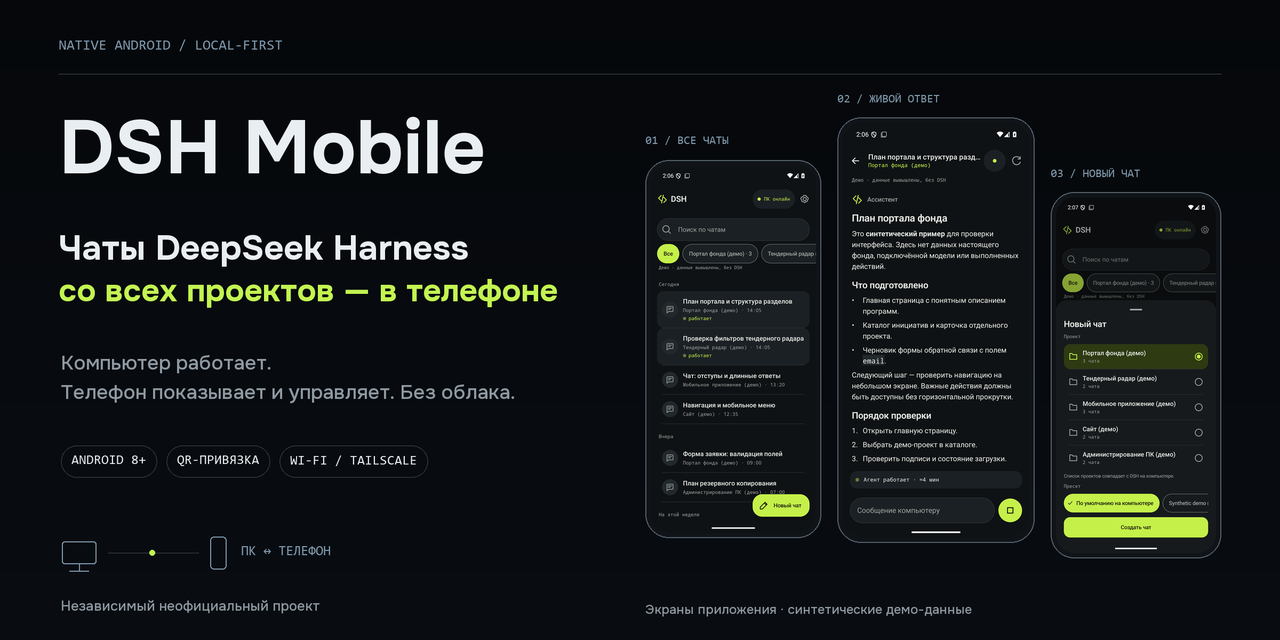
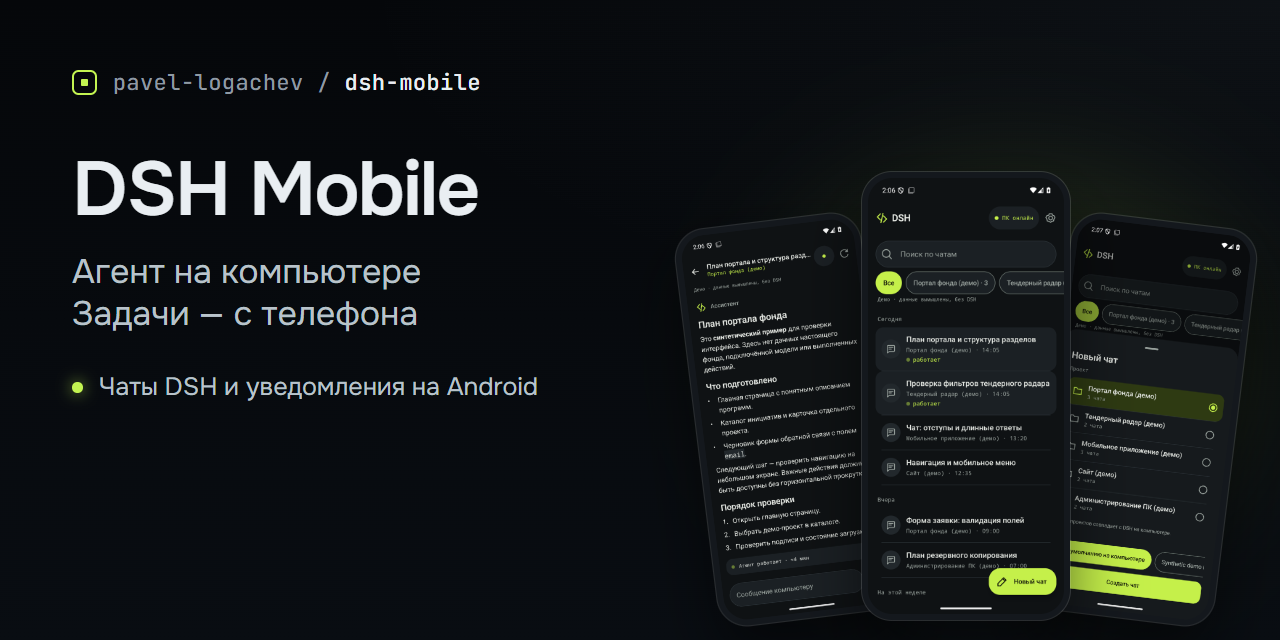
docs: redesign README and visuals

diff --git a/README.md b/README.md
@@ -1,79 +1,147 @@
-<p align="center">
-  <img src="docs/assets/dsh-mobile-showcase.png" alt="DSH Mobile — список чатов и чат с работающим агентом на Android" width="100%">
-</p>
+<picture><source media="(max-width: 767px)" srcset="docs/assets/dsh-mobile-banner-mobile.png"><img src="docs/assets/dsh-mobile-banner.png" alt="Экраны DSH Mobile для Android. Чаты и уведомления — на телефоне, агент работает на компьютере."></picture>
 
 # DSH Mobile
 
-**Агент в [DeepSeek Harness](https://github.com/deepseek-ai/deepseek-harness) работает на вашем компьютере. DSH Mobile даёт доступ к нему с Android-телефона: открыть чат любого проекта, поставить задачу, следить за ответом в реальном времени и узнать уведомлением, что ответ готов.** Телефон привязывается по QR-коду и подключается к компьютеру по Wi‑Fi или через Tailscale. Облачного сервера у приложения нет: модели, инструменты, подписки и история остаются на компьютере.
+**Ваш агент [DeepSeek Harness](https://github.com/deepseek-ai/deepseek-harness) работает на компьютере. С Android-телефона вы ставите задачи, читаете ответы в реальном времени и получаете уведомление «Ответ готов».**
 
-<p align="center">
-  <a href="https://github.com/pavel-logachev/dsh-mobile/releases/tag/v0.5.0">Скачать APK 0.5.0</a> &nbsp;·&nbsp;
-  <a href="docs/SETUP.md">Установка</a> &nbsp;·&nbsp;
-  <a href="docs/ARCHITECTURE.md">Архитектура</a> &nbsp;·&nbsp;
-  <a href="docs/SECURITY.md">Безопасность</a> &nbsp;·&nbsp;
-  <a href="https://github.com/pavel-logachev/dsh-mobile/actions/workflows/ci.yml">CI</a> &nbsp;·&nbsp;
-  Android 8+ &nbsp;·&nbsp;
-  <a href="LICENSE">MIT</a> &nbsp;·&nbsp;
-  <a href="#english">English</a>
-</p>
+[Скачать APK 0.5.0](https://github.com/pavel-logachev/dsh-mobile/releases/tag/v0.5.0) · [Установка](#установка) · [Архитектура](#как-это-устроено) · [Безопасность](#безопасность) · [English](#english)
 
-> Проект неофициальный и разрабатывается независимо от DeepSeek. Версией 0.5 автор пользуется на своём телефоне со своим DSH.
+> Неофициальный проект Павла Логачева. Разрабатывается независимо от DeepSeek.
+
+Android 8.0+ · Привязка по QR-коду · Wi‑Fi или Tailscale
+
+Модели, инструменты и подписки остаются на компьютере. Облачного сервера у DSH Mobile нет.
 
 ## Что можно делать с телефона
 
-**Работать с чатами.** Список проектов совпадает с боковой панелью DSH, включая порядок; новые проекты появляются без повторной привязки. Чаты можно искать, фильтровать по проекту и находить по группам «Сегодня», «Вчера», «На неделе». Чтобы начать новый чат, выберите проект и пресет и отправьте текстовую задачу.
+- **Открывать чаты всех проектов.** Искать чаты и фильтровать по проекту. Список проектов следует боковой панели DSH и обновляется без повторной привязки.
+- **Ставить задачи.** Создать чат, выбрать проект и пресет, отправить текст.
+- **Читать ответ в реальном времени.** Markdown, таблицы, блоки кода с копированием. Служебные события свёрнуты в строку «Действия агента» — полный текст доступен по нажатию.
+- **Дописывать, пока агент работает.** Сообщение встанет в очередь DSH и дойдёт до агента на следующем шаге.
+- **Останавливать работу.** Отдельная кнопка «Стоп» запрашивает подтверждение.
+- **Получать уведомления.** «Ответ готов» и «Агент ждёт вашего решения» включаются по желанию; отдельные проекты и чаты можно отключить.
+- **Возвращаться к переписке.** Поиск по сообщениям, черновик для каждого чата и копирование по долгому нажатию.
 
-**Следить за работой агента.** Ответ обновляется в реальном времени и отображается как Markdown: заголовки, списки, таблицы, блоки кода с копированием. В переписке остаются только ваши сообщения и ответы агента. Служебные события DSH — результаты сабагентов, фоновые задачи, обновления контекста — свёрнуты в строку «Действия агента», полный текст открывается по нажатию.
+Есть светлая и тёмная тема, русский и английский интерфейс, поддержка крупного шрифта.
 
-**Вмешаться, не дожидаясь конца.** Пока агент работает, можно дописать сообщение: оно встанет в очередь DSH и дойдёт до агента на следующем шаге. Кнопка «Стоп» вынесена отдельно и просит подтверждения.
+<picture><source media="(max-width: 767px)" srcset="docs/assets/dsh-mobile-screens-mobile.png"><img src="docs/assets/dsh-mobile-screens.png" alt="Три экрана: чаты разных проектов, ответ в Markdown во время работы агента и выбор проекта перед новым чатом."></picture>
 
-**Получать уведомления.** По желанию включаются уведомления «Ответ готов» и «Агент ждёт вашего решения». В них только название проекта и чата, без текста ответа; на экране блокировки показывается только «Ответ готов». Уведомления можно выключить для отдельных проектов и чатов. Пока они включены, в шторке висит «DSH Mobile на связи». Сервисы Google не нужны.
-
-**И мелочи, которые экономят время.** Поиск по переписке, меню копирования по долгому нажатию на сообщение, черновик для каждого чата. При обрыве сети во время отправки приложение сверяет статус задачи с компьютером, чтобы не запустить её дважды. Светлая и тёмная тема, русский и английский интерфейс, крупный шрифт.
-
-<p align="center">
-  <img src="docs/screenshots/home-dark.png" width="240" alt="Список чатов с фильтром по проектам">
-  <img src="docs/screenshots/chat-markdown-running.png" width="240" alt="Чат с Markdown и работающим агентом">
-  <img src="docs/screenshots/new-chat-sheet.png" width="240" alt="Выбор проекта для нового чата">
-</p>
-<p align="center"><sub>Настоящие снимки экрана приложения с синтетическими демо-данными: реальных чатов и моделей здесь нет.</sub></p>
+Снимки сделаны в настоящем приложении с синтетическими демо-данными. Реальных чатов и подключённых моделей на них нет.
 
 ## Как это устроено
 
+На компьютере устанавливается плагин-компаньон. Он открывает привязанному телефону узкий API через защищённое соединение, но не публикует наружу веб-интерфейс DSH.
+
 ```text
-Android-приложение ──HTTPS (Wi‑Fi или Tailscale)──▶ плагин-компаньон внутри DSH ──▶ ваши проекты и агенты
-                    └─ или через ваш собственный relay (опционально)
+Android-приложение
+  │ HTTPS по Wi‑Fi или Tailscale
+  │ или через ваш собственный relay
+  ▼
+Плагин-компаньон внутри DSH
+  │
+  ▼
+Ваши проекты и агенты на компьютере
 ```
 
-В DSH на компьютере устанавливается небольшой плагин-компаньон. Он открывает привязанным телефонам узкий API через защищённое соединение, а сам веб-интерфейс DSH наружу не публикуется. Телефон проверяет компьютер по сертификату, закреплённому в приглашении. У каждого телефона свой ключ и свои права, их можно отозвать.
+Телефон — только клиент: агент продолжает работать и после закрытия приложения. Основная история переписки хранится в DSH на компьютере.
 
-Для привязки телефон сканирует одноразовый QR-код с экрана компьютера. Камера нужна только на время сканирования, код распознаётся без сети и без сервисов Google.
+Android-клиент написан на Kotlin и Jetpack Compose, плагин работает на Node.js. Собственный relay — необязательный вариант подключения; общего публичного relay проект не предоставляет.
 
 ## Установка
 
-Пошаговую инструкцию [docs/SETUP.md](docs/SETUP.md) можно отдать своему агенту DSH: он проверит версии, установит плагин и спросит согласия перед каждым важным действием. Коротко:
+Подробную [инструкцию установки](<docs/SETUP.md>) можно передать своему агенту DSH. В ней — проверки окружения, команды и отдельное согласование установки, прав доступа и активации.
 
-1. Проверьте требования: Windows, DeepSeek Harness `0.2.0-rc.2` или `0.2.1-alpha.1`, Node.js 24, OpenSSL 3, телефон на Android 8.0 или новее.
-2. Скачайте из [Releases](https://github.com/pavel-logachev/dsh-mobile/releases/latest) подписанный APK, архив плагина `dsh-mobile-host-<версия>.zip` и их файлы `.sha256`. Сверьте контрольные суммы.
-3. Установите плагин: запустите `install-host.ps1` из архива и укажите адрес компьютера — IP в домашней сети или имя в Tailscale. Скрипт сначала только готовит конфигурацию, а подключает плагин к DSH отдельным шагом `-Activate`, без перезапуска DSH.
-4. Выберите права: чтение всех проектов и, если нужно, запуск задач. Правило брандмауэра Windows добавляется только для частной сети и только с вашего согласия.
-5. Установите APK. Android попросит разрешить установку из этого источника.
-6. Привяжите телефон: на компьютере `pair --qr`, в приложении «Сканировать QR-код», затем сверьте адрес и отпечаток сертификата и подтвердите.
+1. **Проверьте требования.**
 
-Чтобы пользоваться приложением вне дома, поставьте [Tailscale](https://tailscale.com/) на компьютер и телефон и укажите при установке имя компьютера в tailnet. Это бесплатно, роутер настраивать не нужно. Если Tailscale не подходит, можно развернуть свой relay на VPS по инструкции [RELAY_DEPLOYMENT.md](docs/RELAY_DEPLOYMENT.md). Общего публичного relay проект не предоставляет.
+   Компьютер: Windows, DeepSeek Harness `0.2.0-rc.2` или `0.2.1-alpha.1`, Node.js 24.x, OpenSSL 3. Телефон: Android 8.0 или новее. Node 24 нужен и процессу DSH, внутри которого работает плагин, — одной подходящей версии в PATH недостаточно.
 
-Обновление с 0.4.0: APK ставится поверх, привязка сохраняется. Плагин обновляется через `install-host.ps1` из нового архива.
+2. **Скачайте и проверьте файлы релиза.**
+
+   Из [релиза 0.5.0](https://github.com/pavel-logachev/dsh-mobile/releases/tag/v0.5.0) нужны подписанный APK, архив `dsh-mobile-host-<version>.zip` и их файлы `.sha256`. Все файлы должны быть из одного релиза. `UNSIGNED-verification.apk` — проверочный артефакт, не файл для установки.
+
+   Укажите абсолютные пути к скачанным файлам и сравните хеши с `.sha256`. При несовпадении остановитесь.
+
+   ```powershell
+   $zip = '<ABSOLUTE_DOWNLOADED_HOST_ZIP>'
+   $apk = '<ABSOLUTE_DOWNLOADED_SIGNED_APK>'
+   (Get-FileHash -LiteralPath $zip -Algorithm SHA256).Hash.ToLowerInvariant()
+   (Get-FileHash -LiteralPath $apk -Algorithm SHA256).Hash.ToLowerInvariant()
+   # Compare exactly with the release's .sha256 files. A mismatch means STOP.
+   ```
+
+3. **Подготовьте плагин на компьютере.**
+
+   Извлеките из архива и прочитайте [установщик](<tools/install-host.ps1>). В командах ниже замените заполнители: путь к скрипту и адрес компьютера в домашней сети или Tailscale. Если дополнительный адрес не нужен, удалите второй элемент массива.
+
+   ```powershell
+   $installer = '<ABSOLUTE_REVIEWED_INSTALL_HOST_PS1>'
+   $hosts = @('<ACTUAL_PRIMARY_LAN_OR_TAILSCALE_HOST>', '<OPTIONAL_ADDITIONAL_SAN>')
+   # Remove the second element if not needed. Substitute approved real values locally.
+   & $installer -ZipPath $zip -Hosts $hosts -WhatIf
+   & $installer -ZipPath $zip -Hosts $hosts
+   ```
+
+   Этот шаг готовит файлы и конфигурацию, но ещё не подключает плагин к DSH.
+
+4. **Активируйте плагин.**
+
+   После проверки предлагаемых изменений:
+
+   ```powershell
+   & $installer -ZipPath $zip -Hosts $hosts -Activate
+   ```
+
+   Установщик не перезапускает DSH. Если плагин не запустился, следуйте диагностике в [инструкции](<docs/SETUP.md>): перезапуск может потребоваться, но согласуется отдельно.
+
+   Если для домашнего Wi‑Fi нужно правило брандмауэра Windows, добавляйте его только с согласия владельца и только для частной сети. Установщик не меняет брандмауэр автоматически.
+
+5. **Установите APK на телефон.**
+
+   Разрешите Android установку из выбранного источника. После установки отключите это разрешение.
+
+6. **Привяжите телефон по QR-коду.**
+
+   На компьютере укажите каталог установленной версии плагина и проверьте конфигурацию:
+
+   ```powershell
+   $plugin = '<EXACT_LOCALAPPDATA_DSHMOBILE_PLUGIN_VERSION_DIRECTORY>'
+   $cli = Join-Path $plugin 'dist/cli.js'
+   $config = Join-Path $env:LOCALAPPDATA 'DSHMobile/host/host.json'
+   node $cli verify-config --config $config
+   ```
+
+   Затем выберите **одну** команду привязки. Только чтение всех текущих и будущих проектов:
+
+   ```powershell
+   node $cli pair --config $config --read all --ttl 300 --qr
+   ```
+
+   Или чтение **и запуск задач** во всех этих проектах — только если вы согласны дать телефону такие права:
+
+   ```powershell
+   node $cli pair --config $config --read all --execute all --ttl 300 --qr
+   ```
+
+   В приложении нажмите «Сканировать QR-код», сверьте адрес компьютера и отпечаток сертификата, затем подтвердите привязку. Камера нужна только для сканирования; код распознаётся без сети и без сервисов Google.
+
+**Для работы вне дома** установите Tailscale на компьютер и телефон, подключите их к своей сети Tailscale и укажите имя компьютера при подготовке плагина. Открывать порт на роутере не нужно. Альтернатива — [собственный relay на VPS](<docs/RELAY_DEPLOYMENT.md>).
+
+**Обновление с 0.4.0:** подписанный тем же ключом APK устанавливается поверх с сохранением привязки. Плагин обновляется установщиком из нового архива; порядок обновления и отката описан в [инструкции](<docs/SETUP.md>).
 
 ## Безопасность
 
-- Плагин работает внутри DSH с теми же правами, что и сам DSH. Фильтр по проектам — не песочница: агент, запущенный с телефона, может всё то же, что и с компьютера. Право запускать задачи давайте только своим доверенным устройствам.
-- Приглашение одноразовое и действует не дольше 15 минут. Передавайте его только напрямую: QR-кодом с экрана своего компьютера или файлом по доверенному каналу.
-- Ключи телефона хранятся в Android Keystore и не попадают в резервные копии. Ключи компьютера лежат в профиле пользователя Windows с доступом только для владельца. Ключи провайдеров моделей на телефон не передаются.
-- Relay, если вы его используете, пересылает зашифрованный трафик и не видит содержимого чатов, но видит IP-адреса, время и объём трафика.
+- **Права агента остаются прежними.** Плагин работает внутри DSH с его правами. Фильтр по проектам — не песочница: агент с телефона может делать то же, что и с компьютера. Право запуска задач давайте только доверенным устройствам.
+- **Приглашение — секрет.** QR-код одноразовый и действует не дольше 15 минут. Не публикуйте его, не отправляйте в чат и не сохраняйте в общие журналы. При привязке проверяются сертификат компьютера, его срок действия, адрес и закреплённый отпечаток.
+- **Ключи провайдеров не передаются на телефон.** Данные привязки защищены Android Keystore и исключены из резервных копий. Приватные файлы плагина на Windows доступны только владельцу учётной записи.
+- **Потерянный телефон нужно отозвать на компьютере.** Локальный выход из приложения удаляет данные привязки с телефона, но не означает отзыв доступа на стороне DSH.
+- **Уведомления не содержат текста ответа.** В них только названия проекта и чата; на экране блокировки — только «Ответ готов».
+- **Relay не видит содержимое чатов.** Он пересылает зашифрованный трафик, но видит IP-адреса, время и объём передачи.
 
-Подробности — в [SECURITY.md](docs/SECURITY.md).
+Не публикуйте наружу веб-порт DSH и не отключайте проверку TLS. Подробнее — в [описании безопасности](<docs/SECURITY.md>).
 
 ## Сборка из исходников
+
+Из корня репозитория, в PowerShell:
 
 ```powershell
 cd host;  npm ci; npm ci --prefix ../relay; npm run check   # плагин-компаньон, Node 24; тестам нужен соседний relay
@@ -81,40 +149,51 @@ cd ..\android
 powershell -NoProfile -ExecutionPolicy Bypass -Command "& ../tools/android-build.ps1 -Tasks ':app:assembleDebug', ':app:testDebugUnitTest', ':app:lintDebug'"
 ```
 
-Нужны JDK 21, Android SDK platform 36 и build-tools 36.0.0. Сборка релиза, подпись своим ключом и упаковка плагина описаны в [BUILD.md](docs/BUILD.md) и [ANDROID_RELEASE.md](docs/ANDROID_RELEASE.md).
+Рекомендуется JDK 21; Windows-помощник также поддерживает JDK 17. Нужны Android SDK platform 36 и build-tools 36.0.0.
+
+Обычная release-сборка APK не подписана и не устанавливается как есть. Сборка, упаковка плагина и подпись своим ключом описаны в [инструкции по сборке](<docs/BUILD.md>) и [инструкции выпуска APK](<docs/ANDROID_RELEASE.md>).
 
 ## Проверки релиза 0.5.0
 
 | Часть | Что проверено |
 |---|---|
-| Android | 190 JVM-тестов, lint без ошибок, 9 UI-тестов на эмуляторе |
-| Плагин | 121 тест: права устройств, отзыв, повторная доставка, гонки при смене проектов, журнал уведомлений, сверка после перезапуска, нагрузка на 600 неактивных чатов. Изолированные прогоны на настоящем DSH обеих поддерживаемых версий |
-| Установщик | 28 сценариев на синтетическом профиле: подготовка, активация, обновление, откат, удаление, сохранность байтов профиля |
-| Сквозная проверка | Эмулятор с изолированным DSH: очередь сообщений и «Стоп», доставка «Ответ готов» в фоне и в режиме Doze, переход из уведомления в нужный чат, приватность экрана блокировки, переподключение после перезапуска плагина |
-| Разрешения APK | Интернет, камера, внутреннее служебное; уведомления и фоновая служба используются, только если вы включили уведомления. Телеметрии и сервисов Google нет |
+| Android | 190 JVM-тестов, 9 UI-тестов на эмуляторе, lint без ошибок |
+| Плагин | 121 тест: права и отзыв доступа, повторная доставка, смена проектов, уведомления и восстановление. Нагрузка на 600 неактивных чатов |
+| Совместимость с DSH | Изолированные прогоны на настоящем DSH `0.2.0-rc.2` и `0.2.1-alpha.1` |
+| Установщик | 28 сценариев на синтетическом профиле: подготовка, активация, обновление, откат, удаление и сохранность байтов профиля |
+| Сквозная проверка | Эмулятор с изолированным DSH: очередь и «Стоп», уведомления в фоне и Doze, переход в нужный чат, приватность экрана блокировки, переподключение после перезапуска плагина |
+| Разрешения APK | Интернет, камера, внутреннее служебное; уведомления и фоновая служба — только при включённых уведомлениях. Без телеметрии и сервисов Google |
 
 ## Ограничения
 
-- Компьютер и DSH должны быть включены.
-- Уведомления держатся на постоянном фоновом соединении. После перезагрузки телефона или принудительной остановки приложение нужно открыть, а агрессивная экономия батареи у некоторых производителей (OnePlus, Xiaomi и других) может задерживать доставку. На реальном телефоне уведомления пока проверены не были, только на эмуляторе. Push через UnifiedPush — в планах.
-- Вложения, ответы на вопросы агента и подтверждения действий с телефона пока не поддерживаются: их нужно делать на компьютере.
-- Одно приложение привязывается к одному компьютеру. В списке до 100 проектов.
-- Поддерживаются только проверенные версии DSH. Плагин сверяет версию, указанную в его настройках, а не фактически установленную, поэтому после обновления DSH совместимость нужно проверить заново.
+- **Компьютер и DSH должны быть включены.** Телефон не запускает агента автономно.
+- **Уведомления зависят от фонового соединения.** Пока они включены, в шторке видна запись «DSH Mobile на связи». После перезагрузки телефона или принудительной остановки приложение нужно открыть снова.
+- **Проверка уведомлений пока только на эмуляторе.** На реальном телефоне они ещё не проверены; экономия батареи у некоторых производителей может задерживать доставку. Push через UnifiedPush — в планах.
+- **Вложения, ответы на вопросы агента и подтверждения действий — на компьютере.** Уведомление о запросе решения не означает, что ответить на него можно с телефона.
+- **Одна привязка — один компьютер.** В списке учитываются первые 100 зарегистрированных проектов.
+- **Обновление DSH требует проверки совместимости.** Плагин сверяет версию из своих настроек, а не фактически установленную. Поддерживаются только указанные выше проверенные версии.
+- **Обрыв связи не означает, что задача не отправлена.** Приложение сверяет её статус с компьютером. Если доставка осталась неопределённой, проверьте результат на компьютере, прежде чем отправлять задачу заново.
 
 ## Документация
 
-[Установка](docs/SETUP.md) · [Архитектура](docs/ARCHITECTURE.md) · [Протокол](docs/PROTOCOL.md) · [Безопасность](docs/SECURITY.md) · [Интеграция с DSH](docs/DSH_INTEGRATION.md) · [Relay](docs/RELAY_PROTOCOL.md) · [Сборка](docs/BUILD.md) · [Дизайн](docs/DESIGN.md) · [Участие](CONTRIBUTING.md)
-
-<a id="english"></a>
+- [Установка, обновление и удаление](<docs/SETUP.md>)
+- [Архитектура](<docs/ARCHITECTURE.md>)
+- [Протокол мобильного клиента](<docs/PROTOCOL.md>)
+- [Безопасность](<docs/SECURITY.md>)
+- [Интеграция с DSH](<docs/DSH_INTEGRATION.md>)
+- [Развёртывание своего relay](<docs/RELAY_DEPLOYMENT.md>) и [его протокол](<docs/RELAY_PROTOCOL.md>)
+- [Сборка из исходников](<docs/BUILD.md>)
+- [Подпись и выпуск Android APK](<docs/ANDROID_RELEASE.md>)
+- [Участие в проекте](<CONTRIBUTING.md>)
 
 ## English
 
-DSH Mobile is an unofficial native Android client for DeepSeek Harness, developed independently of DeepSeek. Your DSH agent keeps running on your computer; the phone lets you open a chat in any registered project, send a text task, follow the live Markdown reply, add a follow-up while the agent is still working, or stop the run. Models, tools, subscriptions and history stay on your computer.
+DSH Mobile is an unofficial Android client for DeepSeek Harness, developed independently of DeepSeek. Your agent runs on your computer; your phone lets you browse chats across projects, send text tasks, follow live Markdown replies, add a message while the agent is working and stop a run. Optional notifications tell you when an answer is ready. Models, tools, subscriptions and canonical history stay on the computer.
 
-A companion plugin runs inside DSH and exposes a narrow API to paired phones over TLS; the DSH web UI itself is never exposed. The phone pins the computer's certificate from a one-use QR invitation, and scanning works offline without Google Play services. Connect over the same Wi‑Fi, over Tailscale or through your own relay. Each phone has its own key and revocable permissions. Project filtering is not a sandbox: an agent started from the phone can do anything it can do on the computer.
+Pair with a one-use QR code and connect over Wi‑Fi, Tailscale or your own optional relay. DSH Mobile provides no hosted cloud server or shared relay. A companion plugin exposes a narrow HTTPS API, not the DSH web UI. The phone verifies the computer's pinned certificate, and each device has revocable permissions. Project filtering is not a sandbox: agents retain their desktop tool permissions.
 
-Supported DSH versions are `0.2.0-rc.2` and `0.2.1-alpha.1`; Android 8.0+ is required. You can hand the [setup runbook](docs/SETUP.md) to your DSH agent. Service events are folded into a collapsible "Agent activity" row. Optional notifications ("answer ready", "agent needs your decision") contain only project and chat names and use an opt-in foreground connection without Google services. Attachments and approvals from the phone are not supported yet.
+Requires Android 8.0+, Windows, DSH `0.2.0-rc.2` or `0.2.1-alpha.1`, Node.js 24.x and OpenSSL 3. [Download the signed APK and host package](https://github.com/pavel-logachev/dsh-mobile/releases/tag/v0.5.0) and follow the [setup guide](<docs/SETUP.md>), or give it to your DSH agent. The computer must remain on. Notifications use an opt-in foreground connection without Google services; physical-phone notification delivery has not yet been verified. Attachments, answers to agent questions and approvals still require the desktop.
 
 ## Лицензия
 
-[MIT](LICENSE) © 2026 Pavel Logachev. Сторонние зависимости распространяются под своими лицензиями.
+[MIT](<LICENSE>) © 2026 Pavel Logachev. Сторонние зависимости распространяются под своими лицензиями.
